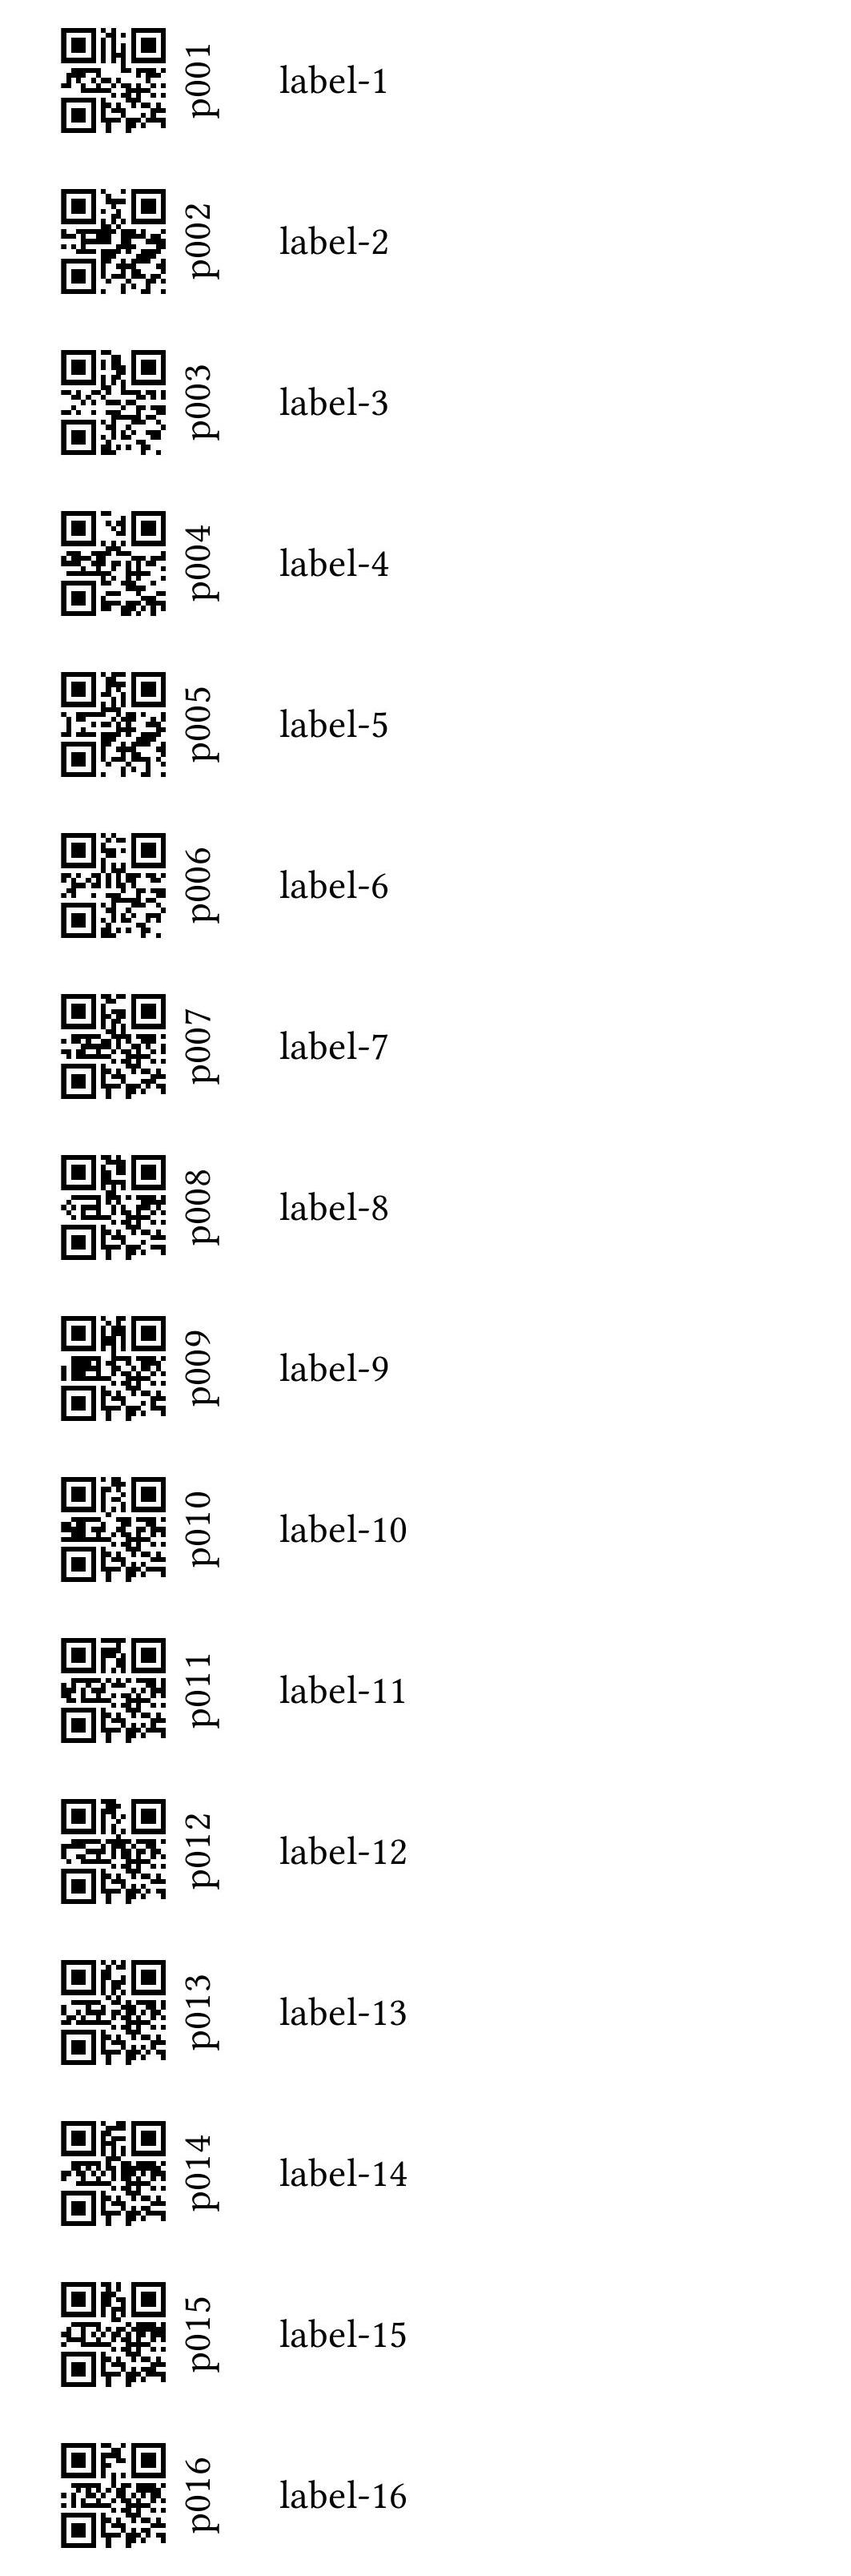
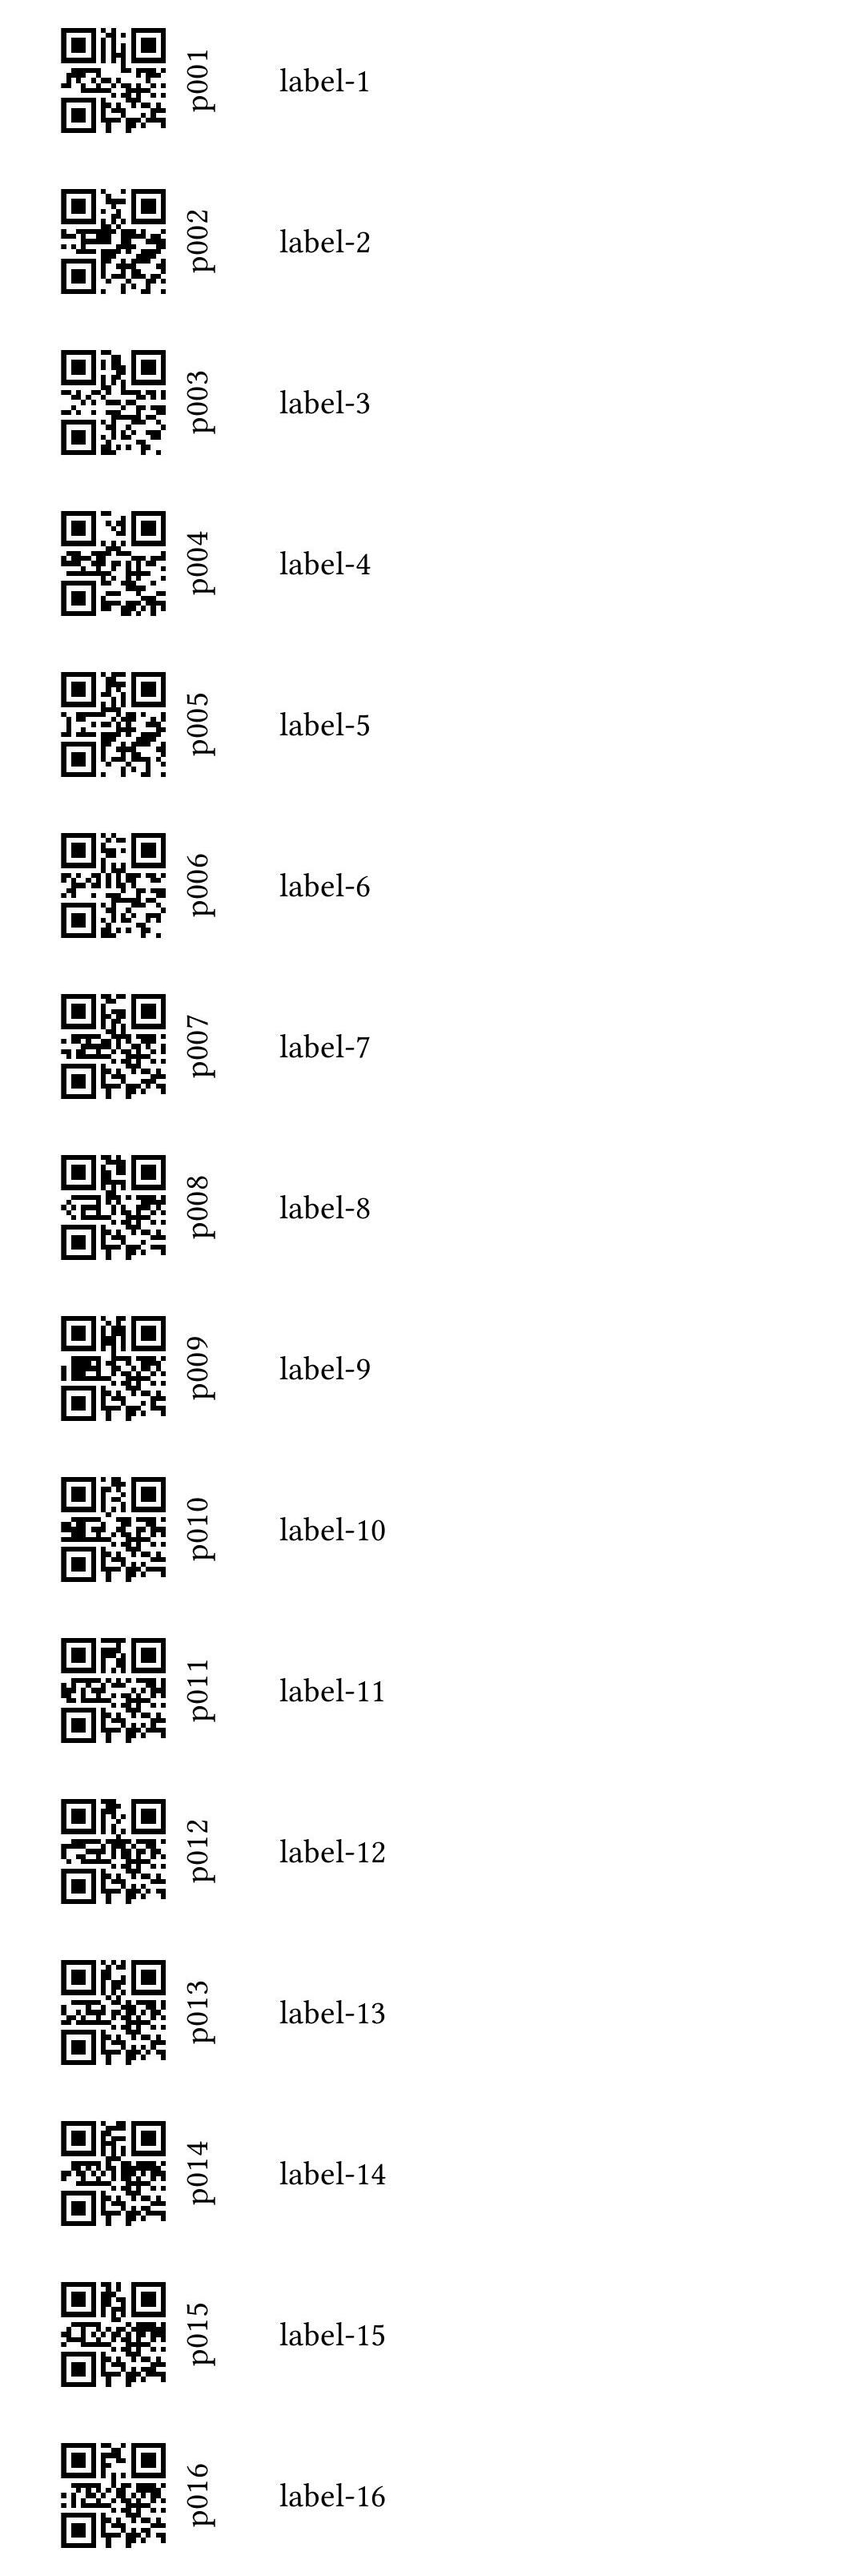
change readme picture size

diff --git a/README.md b/README.md
@@ -32,7 +32,7 @@ labelyst(testdf,"example_1", "a4", [8, 2])
 
 ## Create labels for pot experiments
 ```julia
-labelyst(testdf,"example_2", ["90mm", "17mm"])
+labelyst(testdf,"example_2", ["90mm", "17mm"]; font_size = "10pt")
 ```
 
 <img src="docs/assets/example_2.jpg" width="400">
